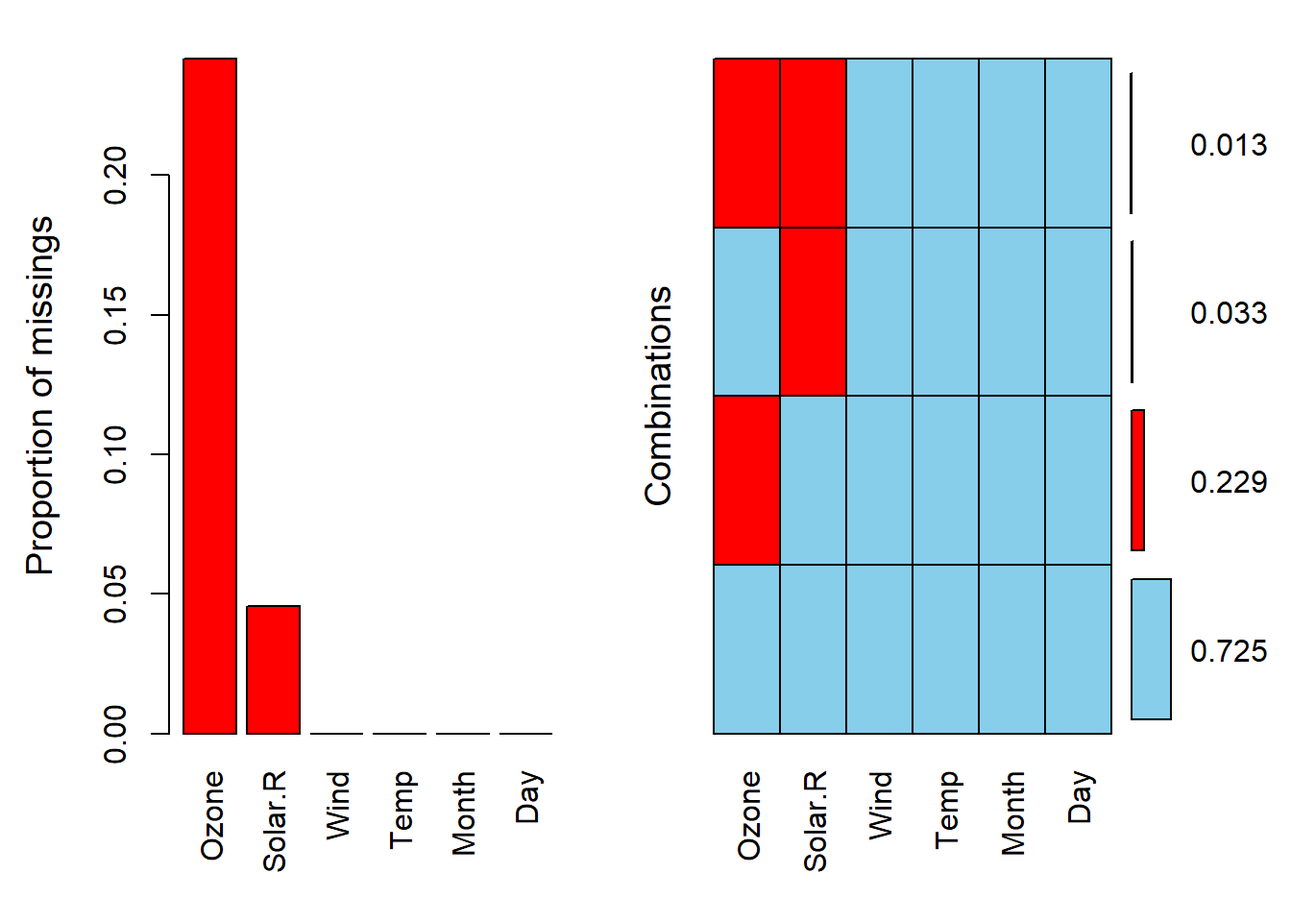
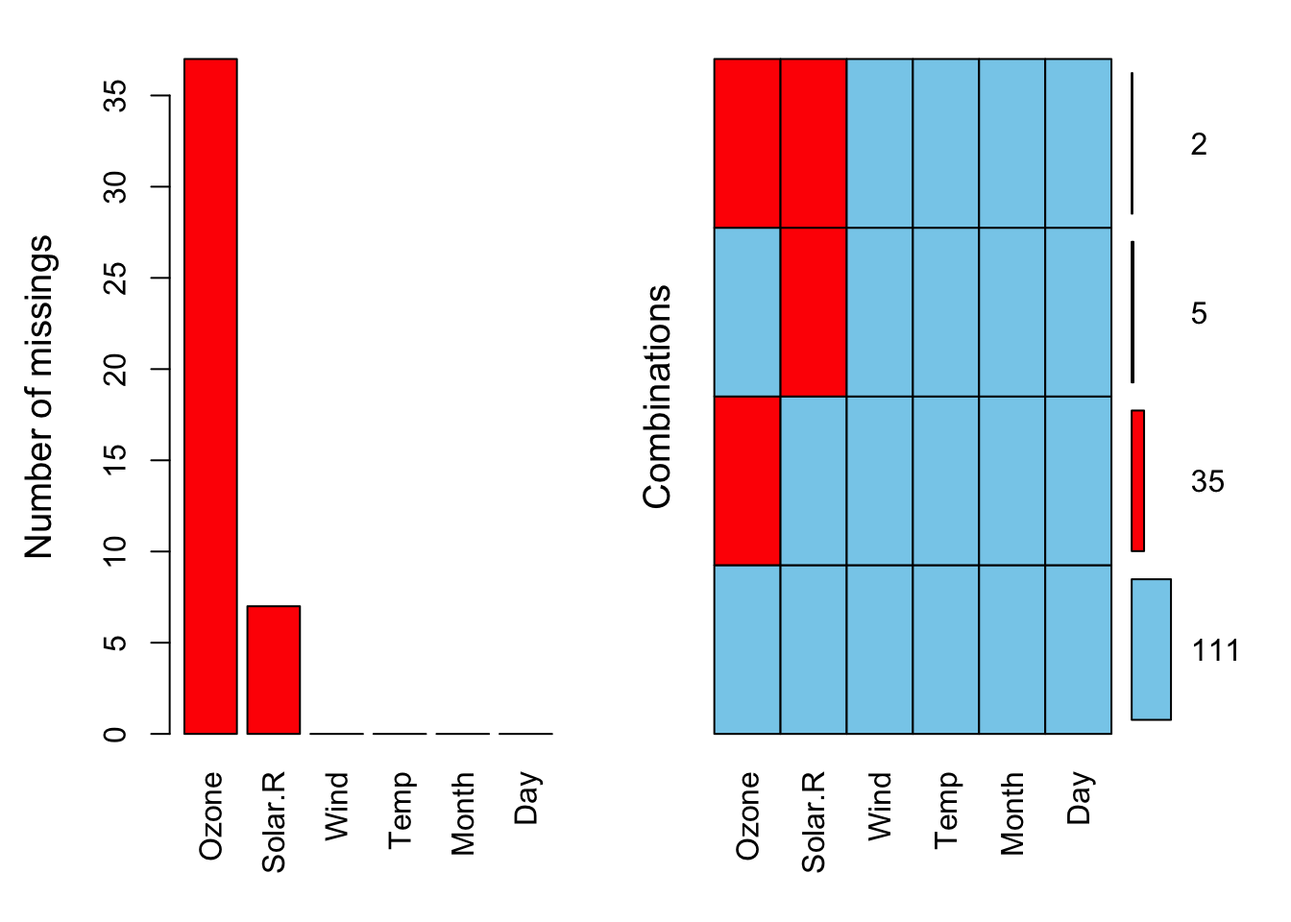
correct some typos

diff --git a/_book/chapters/missing_values.html b/_book/chapters/missing_values.html
@@ -76,7 +76,7 @@ pre > code.sourceCode > span > a:first-child::before { text-decoration: underlin
 <link href="../site_libs/quarto-html/quarto-syntax-highlighting-37eea08aefeeee20ff55810ff984fec1.css" rel="stylesheet" id="quarto-text-highlighting-styles">
 <script src="../site_libs/bootstrap/bootstrap.min.js"></script>
 <link href="../site_libs/bootstrap/bootstrap-icons.css" rel="stylesheet">
-<link href="../site_libs/bootstrap/bootstrap-364982630eef5352dd1537128a8ed5cb.min.css" rel="stylesheet" append-hash="true" id="quarto-bootstrap" data-mode="light">
+<link href="../site_libs/bootstrap/bootstrap-485d01fc63b59abcd3ee1bf1e8e2748d.min.css" rel="stylesheet" append-hash="true" id="quarto-bootstrap" data-mode="light">
 <script id="quarto-search-options" type="application/json">{
   "location": "sidebar",
   "copy-button": false,
@@ -2212,8 +2212,9 @@ Tip
 </section>
 <section id="common-reasons-for-missing-data" class="level2" data-number="8.3">
 <h2 data-number="8.3" class="anchored" data-anchor-id="common-reasons-for-missing-data"><span class="header-section-number">8.3</span> Common Reasons for Missing Data</h2>
-<p>Data may be missing due to: - <strong>Technical issues</strong>: Equipment failure or data transfer errors.</p>
+<p>Data may be missing due to:</p>
 <ul>
+<li><p><strong>Technical issues</strong>: Equipment failure or data transfer errors.</p></li>
 <li><p><strong>Human errors</strong>: Mistakes in entry or recording.</p></li>
 <li><p><strong>Privacy concerns</strong>: Withholding sensitice information.</p></li>
 <li><p><strong>Processing problems</strong>: Errors during data preparation or transformation.</p></li>
@@ -2223,7 +2224,7 @@ Tip
 <h2 data-number="8.4" class="anchored" data-anchor-id="figure-out-why-the-data-is-missing"><span class="header-section-number">8.4</span> Figure out Why the Data Is Missing</h2>
 <p>Before handling missing values, it is IMPORTANT to understand why they are missing – this is part of what we can call <strong>data intuition</strong>, or the ability to look closely at your data and reason about what is happening.</p>
 <p>Ask yourself this key question:</p>
-<p>** Is the value missing because it was recorded, or because it does not exist?**</p>
+<p><strong>Is the value missing because it was recorded, or because it does not exist?</strong></p>
 <ul>
 <li><p>If it <strong>does not exist</strong> (for example, the height of the oldest child of someone who does not have any children), it does not make sense to fill it in – keep it as <code>NaN</code>.</p></li>
 <li><p>If it <strong>was not recorded</strong> (for example, a measurement that someone forgot to take), you may estimate it using other available data. This process is called <strong>imputation</strong>.</p></li>
@@ -2249,24 +2250,13 @@ Tip
 <span id="cb1-3"><a href="#cb1-3" aria-hidden="true" tabindex="-1"></a><span class="fu">library</span>(VIM)</span>
 <span id="cb1-4"><a href="#cb1-4" aria-hidden="true" tabindex="-1"></a></span>
 <span id="cb1-5"><a href="#cb1-5" aria-hidden="true" tabindex="-1"></a><span class="co"># Aggregation plot of missingness</span></span>
-<span id="cb1-6"><a href="#cb1-6" aria-hidden="true" tabindex="-1"></a><span class="fu">aggr</span>(airquality, <span class="at">numbers =</span> <span class="cn">TRUE</span>, <span class="at">sortVars =</span> <span class="cn">TRUE</span>)</span></code><button title="Copy to Clipboard" class="code-copy-button"><i class="bi"></i></button></pre></div>
+<span id="cb1-6"><a href="#cb1-6" aria-hidden="true" tabindex="-1"></a><span class="fu">aggr</span>(airquality, <span class="at">numbers =</span> <span class="cn">TRUE</span>, <span class="at">prop =</span> <span class="cn">FALSE</span>)</span></code><button title="Copy to Clipboard" class="code-copy-button"><i class="bi"></i></button></pre></div>
 <div class="cell-output-display">
 <div>
 <figure class="figure">
 <p><img src="missing_values_files/figure-html/unnamed-chunk-1-1.png" class="img-fluid figure-img" style="width:80.0%"></p>
 </figure>
 </div>
-</div>
-<div class="cell-output cell-output-stdout">
-<pre><code>
- Variables sorted by number of missings: 
- Variable      Count
-    Ozone 0.24183007
-  Solar.R 0.04575163
-     Wind 0.00000000
-     Temp 0.00000000
-    Month 0.00000000
-      Day 0.00000000</code></pre>
 </div>
 </div>
 <div id="qwebr-insertion-location-5"></div>
@@ -2282,8 +2272,8 @@ Tip
 <blockquote class="blockquote">
 <p><em>The data went missing by accident.</em></p>
 </blockquote>
-<p>This meissingness has <strong>nothing to do</strong> with any variable in your dataset. It is just a bad luck – like someone spilled coffee on some forms or a sensor failed. Everyone had an equal chance of having missing data.</p>
-<p><strong>For example</strong>, a few labe samples are lost because a fridge broke. This has nothing to do with the people or the measurements. ::: callout-important If data are MCAR, your analysis will still be fair and unbiased, even if you remove those cases. :::</p>
+<p>This missingness has <strong>nothing to do</strong> with any variable in your dataset. It is just a bad luck – like someone spilled coffee on some forms or a sensor failed. Everyone had an equal chance of having missing data.</p>
+<p><strong>For example</strong>, a few lab samples are lost because a fridge broke. This has nothing to do with the people or the measurements. ::: callout-important If data are MCAR, your analysis will still be fair and unbiased, even if you remove those cases. :::</p>
 <ol start="2" type="1">
 <li><strong>MAR – Missing at Random</strong></li>
 </ol>
@@ -2372,10 +2362,10 @@ Important
 <h4 data-number="8.7.2.1" class="anchored" data-anchor-id="deleting-columns-with-many-missing-values"><span class="header-section-number">8.7.2.1</span> Deleting Columns with Many Missing Values</h4>
 <p>If a column has <em>too many</em> missing values (for example, more than <span class="math inline">\(70\)</span>-<span class="math inline">\(80\%\)</span> of the entries are <code>NA</code>), it may be better to remove it completely.</p>
 <div class="cell">
-<div class="sourceCode cell-code" id="cb3"><pre class="sourceCode r code-with-copy"><code class="sourceCode r"><span id="cb3-1"><a href="#cb3-1" aria-hidden="true" tabindex="-1"></a>data <span class="ot">&lt;-</span> data[, <span class="fu">colSums</span>(<span class="fu">is.na</span>(data)) <span class="sc">&lt;</span> <span class="fl">0.8</span> <span class="sc">*</span> <span class="fu">nrow</span>(data)]</span>
-<span id="cb3-2"><a href="#cb3-2" aria-hidden="true" tabindex="-1"></a></span>
-<span id="cb3-3"><a href="#cb3-3" aria-hidden="true" tabindex="-1"></a><span class="co"># or equivalently</span></span>
-<span id="cb3-4"><a href="#cb3-4" aria-hidden="true" tabindex="-1"></a>data <span class="ot">&lt;-</span> data[, <span class="fu">colMeans</span>(<span class="fu">is.na</span>(data)) <span class="sc">&lt;</span> <span class="fl">0.8</span>]</span></code><button title="Copy to Clipboard" class="code-copy-button"><i class="bi"></i></button></pre></div>
+<div class="sourceCode cell-code" id="cb2"><pre class="sourceCode r code-with-copy"><code class="sourceCode r"><span id="cb2-1"><a href="#cb2-1" aria-hidden="true" tabindex="-1"></a>data <span class="ot">&lt;-</span> data[, <span class="fu">colSums</span>(<span class="fu">is.na</span>(data)) <span class="sc">&lt;</span> <span class="fl">0.8</span> <span class="sc">*</span> <span class="fu">nrow</span>(data)]</span>
+<span id="cb2-2"><a href="#cb2-2" aria-hidden="true" tabindex="-1"></a></span>
+<span id="cb2-3"><a href="#cb2-3" aria-hidden="true" tabindex="-1"></a><span class="co"># or equivalently</span></span>
+<span id="cb2-4"><a href="#cb2-4" aria-hidden="true" tabindex="-1"></a>data <span class="ot">&lt;-</span> data[, <span class="fu">colMeans</span>(<span class="fu">is.na</span>(data)) <span class="sc">&lt;</span> <span class="fl">0.8</span>]</span></code><button title="Copy to Clipboard" class="code-copy-button"><i class="bi"></i></button></pre></div>
 </div>
 <div class="callout callout-style-default callout-tip callout-titled">
 <div class="callout-header d-flex align-content-center">
@@ -2411,8 +2401,8 @@ Caution
 <h5 data-number="8.7.2.2.1" class="anchored" data-anchor-id="listwise-deletion"><span class="header-section-number">8.7.2.2.1</span> Listwise Deletion</h5>
 <p>Listwise deletion (also called <em>case deletion</em>) is the default behaviour in R. This methods removes all rows (cases) that contain at least one missing value, regardless of which variable it occues in. For example,</p>
 <div class="cell">
-<div class="sourceCode cell-code" id="cb4"><pre class="sourceCode r code-with-copy"><code class="sourceCode r"><span id="cb4-1"><a href="#cb4-1" aria-hidden="true" tabindex="-1"></a>linear_model <span class="ot">&lt;-</span> <span class="fu">lm</span>(Ozone <span class="sc">~</span> Solar.R, <span class="at">data =</span> airquality)</span>
-<span id="cb4-2"><a href="#cb4-2" aria-hidden="true" tabindex="-1"></a><span class="fu">summary</span>(linear_model)</span></code><button title="Copy to Clipboard" class="code-copy-button"><i class="bi"></i></button></pre></div>
+<div class="sourceCode cell-code" id="cb3"><pre class="sourceCode r code-with-copy"><code class="sourceCode r"><span id="cb3-1"><a href="#cb3-1" aria-hidden="true" tabindex="-1"></a>linear_model <span class="ot">&lt;-</span> <span class="fu">lm</span>(Ozone <span class="sc">~</span> Solar.R, <span class="at">data =</span> airquality)</span>
+<span id="cb3-2"><a href="#cb3-2" aria-hidden="true" tabindex="-1"></a><span class="fu">summary</span>(linear_model)</span></code><button title="Copy to Clipboard" class="code-copy-button"><i class="bi"></i></button></pre></div>
 <div class="cell-output cell-output-stdout">
 <pre><code>
 Call:
@@ -2437,16 +2427,16 @@ F-statistic: 15.05 on 1 and 109 DF,  p-value: 0.0001793</code></pre>
 </div>
 <p>If you check the model output, R shows at the bottom something like:</p>
 <div class="cell">
-<div class="sourceCode cell-code" id="cb6"><pre class="sourceCode r code-with-copy"><code class="sourceCode r"><span id="cb6-1"><a href="#cb6-1" aria-hidden="true" tabindex="-1"></a> <span class="dv">42</span> observations deleted due to missingness</span></code><button title="Copy to Clipboard" class="code-copy-button"><i class="bi"></i></button></pre></div>
+<div class="sourceCode cell-code" id="cb5"><pre class="sourceCode r code-with-copy"><code class="sourceCode r"><span id="cb5-1"><a href="#cb5-1" aria-hidden="true" tabindex="-1"></a> <span class="dv">42</span> observations deleted due to missingness</span></code><button title="Copy to Clipboard" class="code-copy-button"><i class="bi"></i></button></pre></div>
 </div>
 <p>This message means R autoamtically exculded rows with any missing values before fitting the model.</p>
 <p>You can also perform listwise deletion manually:</p>
 <div class="cell">
-<div class="sourceCode cell-code" id="cb7"><pre class="sourceCode r code-with-copy"><code class="sourceCode r"><span id="cb7-1"><a href="#cb7-1" aria-hidden="true" tabindex="-1"></a>data_without_missing <span class="ot">&lt;-</span> <span class="fu">na.omit</span>(data)</span></code><button title="Copy to Clipboard" class="code-copy-button"><i class="bi"></i></button></pre></div>
+<div class="sourceCode cell-code" id="cb6"><pre class="sourceCode r code-with-copy"><code class="sourceCode r"><span id="cb6-1"><a href="#cb6-1" aria-hidden="true" tabindex="-1"></a>data_without_missing <span class="ot">&lt;-</span> <span class="fu">na.omit</span>(data)</span></code><button title="Copy to Clipboard" class="code-copy-button"><i class="bi"></i></button></pre></div>
 </div>
 <p>Another way is to use only <em>complete cases</em> (rows without any <code>NA</code>).</p>
 <div class="cell">
-<div class="sourceCode cell-code" id="cb8"><pre class="sourceCode r code-with-copy"><code class="sourceCode r"><span id="cb8-1"><a href="#cb8-1" aria-hidden="true" tabindex="-1"></a>data_without_missing <span class="ot">&lt;-</span> data[<span class="fu">complete.cases</span>(data),]</span></code><button title="Copy to Clipboard" class="code-copy-button"><i class="bi"></i></button></pre></div>
+<div class="sourceCode cell-code" id="cb7"><pre class="sourceCode r code-with-copy"><code class="sourceCode r"><span id="cb7-1"><a href="#cb7-1" aria-hidden="true" tabindex="-1"></a>data_without_missing <span class="ot">&lt;-</span> data[<span class="fu">complete.cases</span>(data),]</span></code><button title="Copy to Clipboard" class="code-copy-button"><i class="bi"></i></button></pre></div>
 </div>
 <div class="callout callout-style-default callout-tip callout-titled">
 <div class="callout-header d-flex align-content-center">
@@ -2494,7 +2484,7 @@ Important
 <p>Here, rows are only excluded when data are missing for the specific variables being compared.</p>
 <p>In R, some correlation functions support this:</p>
 <div class="cell">
-<div class="sourceCode cell-code" id="cb9"><pre class="sourceCode r code-with-copy"><code class="sourceCode r"><span id="cb9-1"><a href="#cb9-1" aria-hidden="true" tabindex="-1"></a><span class="fu">cor</span>(data, <span class="at">use =</span> <span class="st">'pairwise.complete.obs'</span>)</span></code><button title="Copy to Clipboard" class="code-copy-button"><i class="bi"></i></button></pre></div>
+<div class="sourceCode cell-code" id="cb8"><pre class="sourceCode r code-with-copy"><code class="sourceCode r"><span id="cb8-1"><a href="#cb8-1" aria-hidden="true" tabindex="-1"></a><span class="fu">cor</span>(data, <span class="at">use =</span> <span class="st">'pairwise.complete.obs'</span>)</span></code><button title="Copy to Clipboard" class="code-copy-button"><i class="bi"></i></button></pre></div>
 </div>
 <p>Although using this method uses more data and does not discard rows entirely, different analyses may use different subsets of data which can make results inconsistent or hard to reproduce.</p>
 </section>
@@ -2556,11 +2546,11 @@ Note
 <p><strong>Group-wise Mean/Median Imputations</strong> Sometimes, imputing within groups makes more sense.</p>
 <p>For instance, if passengers of similar class share similar ages, we can use:</p>
 <div class="cell">
-<div class="sourceCode cell-code" id="cb10"><pre class="sourceCode r code-with-copy"><code class="sourceCode r"><span id="cb10-1"><a href="#cb10-1" aria-hidden="true" tabindex="-1"></a><span class="fu">library</span>(dplyr)</span>
-<span id="cb10-2"><a href="#cb10-2" aria-hidden="true" tabindex="-1"></a>data <span class="ot">&lt;-</span> data <span class="sc">%&gt;%</span></span>
-<span id="cb10-3"><a href="#cb10-3" aria-hidden="true" tabindex="-1"></a>  <span class="fu">group_by</span>(Class) <span class="sc">%&gt;%</span></span>
-<span id="cb10-4"><a href="#cb10-4" aria-hidden="true" tabindex="-1"></a>  <span class="fu">mutate</span>(<span class="at">Age =</span> <span class="fu">if_else</span>(<span class="fu">is.na</span>(Age), <span class="fu">mean</span>(Age, <span class="at">na.rm =</span> <span class="cn">TRUE</span>), Age))<span class="sc">%&gt;%</span></span>
-<span id="cb10-5"><a href="#cb10-5" aria-hidden="true" tabindex="-1"></a>  <span class="fu">ungroup</span>()</span></code><button title="Copy to Clipboard" class="code-copy-button"><i class="bi"></i></button></pre></div>
+<div class="sourceCode cell-code" id="cb9"><pre class="sourceCode r code-with-copy"><code class="sourceCode r"><span id="cb9-1"><a href="#cb9-1" aria-hidden="true" tabindex="-1"></a><span class="fu">library</span>(dplyr)</span>
+<span id="cb9-2"><a href="#cb9-2" aria-hidden="true" tabindex="-1"></a>data <span class="ot">&lt;-</span> data <span class="sc">%&gt;%</span></span>
+<span id="cb9-3"><a href="#cb9-3" aria-hidden="true" tabindex="-1"></a>  <span class="fu">group_by</span>(Class) <span class="sc">%&gt;%</span></span>
+<span id="cb9-4"><a href="#cb9-4" aria-hidden="true" tabindex="-1"></a>  <span class="fu">mutate</span>(<span class="at">Age =</span> <span class="fu">if_else</span>(<span class="fu">is.na</span>(Age), <span class="fu">mean</span>(Age, <span class="at">na.rm =</span> <span class="cn">TRUE</span>), Age))<span class="sc">%&gt;%</span></span>
+<span id="cb9-5"><a href="#cb9-5" aria-hidden="true" tabindex="-1"></a>  <span class="fu">ungroup</span>()</span></code><button title="Copy to Clipboard" class="code-copy-button"><i class="bi"></i></button></pre></div>
 </div>
 <p>Use this when a grouping variable logically explains variation in missing data.</p>
 </div>
@@ -2570,12 +2560,12 @@ Note
 <h5 data-number="8.7.3.1.3" class="anchored" data-anchor-id="imputing-categorcal-columns"><span class="header-section-number">8.7.3.1.3</span> Imputing Categorcal Columns</h5>
 <p>For categorical variabels, replace missing values with the most frequent category or, if many values are missing, a new category such as “unknown”. For example, in a dataset for the variable <code>Gender</code>, we can have</p>
 <div class="cell">
-<div class="sourceCode cell-code" id="cb11"><pre class="sourceCode r code-with-copy"><code class="sourceCode r"><span id="cb11-1"><a href="#cb11-1" aria-hidden="true" tabindex="-1"></a><span class="co"># replace NA with the most common category </span></span>
-<span id="cb11-2"><a href="#cb11-2" aria-hidden="true" tabindex="-1"></a>mode_value <span class="ot">&lt;-</span> <span class="fu">names</span>(<span class="fu">sort</span>(<span class="fu">table</span>(data<span class="sc">$</span>Gender), <span class="at">decreading =</span> <span class="cn">TRUE</span>))[<span class="dv">1</span>]</span>
-<span id="cb11-3"><a href="#cb11-3" aria-hidden="true" tabindex="-1"></a>data<span class="sc">$</span>Gender[<span class="fu">is.na</span>(data<span class="sc">$</span>Gender)] <span class="ot">&lt;-</span> mode_value </span>
-<span id="cb11-4"><a href="#cb11-4" aria-hidden="true" tabindex="-1"></a></span>
-<span id="cb11-5"><a href="#cb11-5" aria-hidden="true" tabindex="-1"></a><span class="co"># Or add a new category </span></span>
-<span id="cb11-6"><a href="#cb11-6" aria-hidden="true" tabindex="-1"></a>data<span class="sc">$</span>Gender <span class="ot">&lt;-</span> <span class="fu">ifelse</span>(<span class="fu">is.na</span>(data<span class="sc">$</span>Gender), <span class="st">"unknown"</span>, data<span class="sc">$</span>Gender)</span></code><button title="Copy to Clipboard" class="code-copy-button"><i class="bi"></i></button></pre></div>
+<div class="sourceCode cell-code" id="cb10"><pre class="sourceCode r code-with-copy"><code class="sourceCode r"><span id="cb10-1"><a href="#cb10-1" aria-hidden="true" tabindex="-1"></a><span class="co"># replace NA with the most common category </span></span>
+<span id="cb10-2"><a href="#cb10-2" aria-hidden="true" tabindex="-1"></a>mode_value <span class="ot">&lt;-</span> <span class="fu">names</span>(<span class="fu">sort</span>(<span class="fu">table</span>(data<span class="sc">$</span>Gender), <span class="at">decreading =</span> <span class="cn">TRUE</span>))[<span class="dv">1</span>]</span>
+<span id="cb10-3"><a href="#cb10-3" aria-hidden="true" tabindex="-1"></a>data<span class="sc">$</span>Gender[<span class="fu">is.na</span>(data<span class="sc">$</span>Gender)] <span class="ot">&lt;-</span> mode_value </span>
+<span id="cb10-4"><a href="#cb10-4" aria-hidden="true" tabindex="-1"></a></span>
+<span id="cb10-5"><a href="#cb10-5" aria-hidden="true" tabindex="-1"></a><span class="co"># Or add a new category </span></span>
+<span id="cb10-6"><a href="#cb10-6" aria-hidden="true" tabindex="-1"></a>data<span class="sc">$</span>Gender <span class="ot">&lt;-</span> <span class="fu">ifelse</span>(<span class="fu">is.na</span>(data<span class="sc">$</span>Gender), <span class="st">"unknown"</span>, data<span class="sc">$</span>Gender)</span></code><button title="Copy to Clipboard" class="code-copy-button"><i class="bi"></i></button></pre></div>
 </div>
 </section>
 </section>
@@ -2583,15 +2573,15 @@ Note
 <h4 data-number="8.7.3.2" class="anchored" data-anchor-id="forward-fill-and-backward-fill-time-series"><span class="header-section-number">8.7.3.2</span> Forward Fill and Backward Fill (Time Series)</h4>
 <p>For time-series data, you can fill missing values using the previous or next observed value.</p>
 <div class="cell">
-<div class="sourceCode cell-code" id="cb12"><pre class="sourceCode r code-with-copy"><code class="sourceCode r"><span id="cb12-1"><a href="#cb12-1" aria-hidden="true" tabindex="-1"></a><span class="co"># install.packages("zoo")</span></span>
-<span id="cb12-2"><a href="#cb12-2" aria-hidden="true" tabindex="-1"></a></span>
-<span id="cb12-3"><a href="#cb12-3" aria-hidden="true" tabindex="-1"></a><span class="fu">library</span>(zoo)</span>
-<span id="cb12-4"><a href="#cb12-4" aria-hidden="true" tabindex="-1"></a></span>
-<span id="cb12-5"><a href="#cb12-5" aria-hidden="true" tabindex="-1"></a><span class="co"># Forward fill</span></span>
-<span id="cb12-6"><a href="#cb12-6" aria-hidden="true" tabindex="-1"></a>data<span class="sc">$</span>Temperature <span class="ot">&lt;-</span> <span class="fu">na.locf</span>(data<span class="sc">$</span>Temperatue, <span class="at">fromLast =</span> <span class="cn">FALSE</span>)</span>
-<span id="cb12-7"><a href="#cb12-7" aria-hidden="true" tabindex="-1"></a></span>
-<span id="cb12-8"><a href="#cb12-8" aria-hidden="true" tabindex="-1"></a><span class="co"># Backward fill </span></span>
-<span id="cb12-9"><a href="#cb12-9" aria-hidden="true" tabindex="-1"></a>data<span class="sc">$</span>Temperature <span class="ot">&lt;-</span> <span class="fu">na.locf</span>(data<span class="sc">$</span>Temperatue, <span class="at">fromLast =</span> <span class="cn">TRUE</span>)</span></code><button title="Copy to Clipboard" class="code-copy-button"><i class="bi"></i></button></pre></div>
+<div class="sourceCode cell-code" id="cb11"><pre class="sourceCode r code-with-copy"><code class="sourceCode r"><span id="cb11-1"><a href="#cb11-1" aria-hidden="true" tabindex="-1"></a><span class="co"># install.packages("zoo")</span></span>
+<span id="cb11-2"><a href="#cb11-2" aria-hidden="true" tabindex="-1"></a></span>
+<span id="cb11-3"><a href="#cb11-3" aria-hidden="true" tabindex="-1"></a><span class="fu">library</span>(zoo)</span>
+<span id="cb11-4"><a href="#cb11-4" aria-hidden="true" tabindex="-1"></a></span>
+<span id="cb11-5"><a href="#cb11-5" aria-hidden="true" tabindex="-1"></a><span class="co"># Forward fill</span></span>
+<span id="cb11-6"><a href="#cb11-6" aria-hidden="true" tabindex="-1"></a>data<span class="sc">$</span>Temperature <span class="ot">&lt;-</span> <span class="fu">na.locf</span>(data<span class="sc">$</span>Temperatue, <span class="at">fromLast =</span> <span class="cn">FALSE</span>)</span>
+<span id="cb11-7"><a href="#cb11-7" aria-hidden="true" tabindex="-1"></a></span>
+<span id="cb11-8"><a href="#cb11-8" aria-hidden="true" tabindex="-1"></a><span class="co"># Backward fill </span></span>
+<span id="cb11-9"><a href="#cb11-9" aria-hidden="true" tabindex="-1"></a>data<span class="sc">$</span>Temperature <span class="ot">&lt;-</span> <span class="fu">na.locf</span>(data<span class="sc">$</span>Temperatue, <span class="at">fromLast =</span> <span class="cn">TRUE</span>)</span></code><button title="Copy to Clipboard" class="code-copy-button"><i class="bi"></i></button></pre></div>
 </div>
 <p>Use this method when data are sequential and values change smoothly over time.</p>
 </section>
@@ -2599,11 +2589,11 @@ Note
 <h4 data-number="8.7.3.3" class="anchored" data-anchor-id="interpolation"><span class="header-section-number">8.7.3.3</span> Interpolation</h4>
 <p>Interpolation estimates missing values based on neighboring points – ideal for regularly spaced time-series.</p>
 <div class="cell">
-<div class="sourceCode cell-code" id="cb13"><pre class="sourceCode r code-with-copy"><code class="sourceCode r"><span id="cb13-1"><a href="#cb13-1" aria-hidden="true" tabindex="-1"></a><span class="co"># install.packages("imputeTS")</span></span>
-<span id="cb13-2"><a href="#cb13-2" aria-hidden="true" tabindex="-1"></a></span>
-<span id="cb13-3"><a href="#cb13-3" aria-hidden="true" tabindex="-1"></a><span class="fu">library</span>(imputeTS)</span>
-<span id="cb13-4"><a href="#cb13-4" aria-hidden="true" tabindex="-1"></a></span>
-<span id="cb13-5"><a href="#cb13-5" aria-hidden="true" tabindex="-1"></a>data<span class="sc">$</span>Temperature <span class="ot">&lt;-</span> <span class="fu">na_interpolation</span>(data<span class="sc">$</span>Temperature, <span class="at">option =</span> <span class="st">"linear"</span>)</span></code><button title="Copy to Clipboard" class="code-copy-button"><i class="bi"></i></button></pre></div>
+<div class="sourceCode cell-code" id="cb12"><pre class="sourceCode r code-with-copy"><code class="sourceCode r"><span id="cb12-1"><a href="#cb12-1" aria-hidden="true" tabindex="-1"></a><span class="co"># install.packages("imputeTS")</span></span>
+<span id="cb12-2"><a href="#cb12-2" aria-hidden="true" tabindex="-1"></a></span>
+<span id="cb12-3"><a href="#cb12-3" aria-hidden="true" tabindex="-1"></a><span class="fu">library</span>(imputeTS)</span>
+<span id="cb12-4"><a href="#cb12-4" aria-hidden="true" tabindex="-1"></a></span>
+<span id="cb12-5"><a href="#cb12-5" aria-hidden="true" tabindex="-1"></a>data<span class="sc">$</span>Temperature <span class="ot">&lt;-</span> <span class="fu">na_interpolation</span>(data<span class="sc">$</span>Temperature, <span class="at">option =</span> <span class="st">"linear"</span>)</span></code><button title="Copy to Clipboard" class="code-copy-button"><i class="bi"></i></button></pre></div>
 </div>
 <p>Use this method when values follow a continues trend (e.g., temperature, stock prices).</p>
 </section>
@@ -2616,18 +2606,18 @@ Note
 </ul>
 <p>For example,</p>
 <div class="cell">
-<div class="sourceCode cell-code" id="cb14"><pre class="sourceCode r code-with-copy"><code class="sourceCode r"><span id="cb14-1"><a href="#cb14-1" aria-hidden="true" tabindex="-1"></a>model <span class="ot">&lt;-</span> <span class="fu">lm</span>(Ozone <span class="sc">~</span> Wind <span class="sc">+</span> Temp <span class="sc">+</span> Solar.R, <span class="at">data =</span> airquality)</span>
-<span id="cb14-2"><a href="#cb14-2" aria-hidden="true" tabindex="-1"></a>pred <span class="ot">&lt;-</span> <span class="fu">predict</span>(model, <span class="at">newdata =</span> airquality)</span>
-<span id="cb14-3"><a href="#cb14-3" aria-hidden="true" tabindex="-1"></a>airquality[<span class="fu">is.na</span>(airquality<span class="sc">$</span>Ozone)] <span class="ot">&lt;-</span> pred[<span class="fu">is.na</span>(airquality<span class="sc">$</span>Ozone)]</span></code><button title="Copy to Clipboard" class="code-copy-button"><i class="bi"></i></button></pre></div>
+<div class="sourceCode cell-code" id="cb13"><pre class="sourceCode r code-with-copy"><code class="sourceCode r"><span id="cb13-1"><a href="#cb13-1" aria-hidden="true" tabindex="-1"></a>model <span class="ot">&lt;-</span> <span class="fu">lm</span>(Ozone <span class="sc">~</span> Wind <span class="sc">+</span> Temp <span class="sc">+</span> Solar.R, <span class="at">data =</span> airquality)</span>
+<span id="cb13-2"><a href="#cb13-2" aria-hidden="true" tabindex="-1"></a>pred <span class="ot">&lt;-</span> <span class="fu">predict</span>(model, <span class="at">newdata =</span> airquality)</span>
+<span id="cb13-3"><a href="#cb13-3" aria-hidden="true" tabindex="-1"></a>airquality[<span class="fu">is.na</span>(airquality<span class="sc">$</span>Ozone)] <span class="ot">&lt;-</span> pred[<span class="fu">is.na</span>(airquality<span class="sc">$</span>Ozone)]</span></code><button title="Copy to Clipboard" class="code-copy-button"><i class="bi"></i></button></pre></div>
 </div>
 <ul>
 <li><strong><span class="math inline">\(k\)</span>-Nearest Neighbors (kNN)</strong>: replace missing values based on similar rows. i.e, kNN filles missing values based on the <span class="math inline">\(k\)</span> most similar observations (neighbors).</li>
 </ul>
 <div class="cell">
-<div class="sourceCode cell-code" id="cb15"><pre class="sourceCode r code-with-copy"><code class="sourceCode r"><span id="cb15-1"><a href="#cb15-1" aria-hidden="true" tabindex="-1"></a><span class="co"># install.packages("VIM")</span></span>
-<span id="cb15-2"><a href="#cb15-2" aria-hidden="true" tabindex="-1"></a><span class="fu">library</span>(VIM) </span>
-<span id="cb15-3"><a href="#cb15-3" aria-hidden="true" tabindex="-1"></a></span>
-<span id="cb15-4"><a href="#cb15-4" aria-hidden="true" tabindex="-1"></a>data_kNN <span class="ot">&lt;-</span> <span class="fu">kNN</span>(airquality, <span class="at">k =</span> <span class="dv">5</span>)</span></code><button title="Copy to Clipboard" class="code-copy-button"><i class="bi"></i></button></pre></div>
+<div class="sourceCode cell-code" id="cb14"><pre class="sourceCode r code-with-copy"><code class="sourceCode r"><span id="cb14-1"><a href="#cb14-1" aria-hidden="true" tabindex="-1"></a><span class="co"># install.packages("VIM")</span></span>
+<span id="cb14-2"><a href="#cb14-2" aria-hidden="true" tabindex="-1"></a><span class="fu">library</span>(VIM) </span>
+<span id="cb14-3"><a href="#cb14-3" aria-hidden="true" tabindex="-1"></a></span>
+<span id="cb14-4"><a href="#cb14-4" aria-hidden="true" tabindex="-1"></a>data_kNN <span class="ot">&lt;-</span> <span class="fu">kNN</span>(airquality, <span class="at">k =</span> <span class="dv">5</span>)</span></code><button title="Copy to Clipboard" class="code-copy-button"><i class="bi"></i></button></pre></div>
 </div>
 <p>Use this method when variables have meaningful similarity structure. It is important to note that this method is computationally expensive for large datasets.</p>
 <ul>
@@ -2639,7 +2629,7 @@ Note
 <h2 data-number="8.8" class="anchored" data-anchor-id="exercise-1"><span class="header-section-number">8.8</span> Exercise 1</h2>
 <p><strong>Dataset1</strong> <code>airquality</code> dataset</p>
 <div class="cell">
-<div class="sourceCode cell-code" id="cb16"><pre class="sourceCode r code-with-copy"><code class="sourceCode r"><span id="cb16-1"><a href="#cb16-1" aria-hidden="true" tabindex="-1"></a><span class="fu">data</span>(<span class="st">"airquality"</span>)</span></code><button title="Copy to Clipboard" class="code-copy-button"><i class="bi"></i></button></pre></div>
+<div class="sourceCode cell-code" id="cb15"><pre class="sourceCode r code-with-copy"><code class="sourceCode r"><span id="cb15-1"><a href="#cb15-1" aria-hidden="true" tabindex="-1"></a><span class="fu">data</span>(<span class="st">"airquality"</span>)</span></code><button title="Copy to Clipboard" class="code-copy-button"><i class="bi"></i></button></pre></div>
 </div>
 <p>The dataset records daily air quality measurements in New York (1973). It has missing values in <code>Ozone</code> and <code>Solar.R</code> columns.</p>
 <p><strong>Question 1:</strong></p>
@@ -2657,9 +2647,9 @@ Note
 <h2 data-number="8.9" class="anchored" data-anchor-id="exercise-2"><span class="header-section-number">8.9</span> Exercise 2</h2>
 <p>** Dataset2** <code>nhanes</code> dataset from <code>mice</code> package</p>
 <div class="cell">
-<div class="sourceCode cell-code" id="cb17"><pre class="sourceCode r code-with-copy"><code class="sourceCode r"><span id="cb17-1"><a href="#cb17-1" aria-hidden="true" tabindex="-1"></a><span class="co"># install.packages("mice")</span></span>
-<span id="cb17-2"><a href="#cb17-2" aria-hidden="true" tabindex="-1"></a><span class="fu">library</span>(mice)</span>
-<span id="cb17-3"><a href="#cb17-3" aria-hidden="true" tabindex="-1"></a><span class="fu">data</span>(<span class="st">"nhanes"</span>)</span></code><button title="Copy to Clipboard" class="code-copy-button"><i class="bi"></i></button></pre></div>
+<div class="sourceCode cell-code" id="cb16"><pre class="sourceCode r code-with-copy"><code class="sourceCode r"><span id="cb16-1"><a href="#cb16-1" aria-hidden="true" tabindex="-1"></a><span class="co"># install.packages("mice")</span></span>
+<span id="cb16-2"><a href="#cb16-2" aria-hidden="true" tabindex="-1"></a><span class="fu">library</span>(mice)</span>
+<span id="cb16-3"><a href="#cb16-3" aria-hidden="true" tabindex="-1"></a><span class="fu">data</span>(<span class="st">"nhanes"</span>)</span></code><button title="Copy to Clipboard" class="code-copy-button"><i class="bi"></i></button></pre></div>
 </div>
 <p><strong>Question 1:</strong></p>
 <ol type="a">

diff --git a/_book/chapters/Outlier_Detection.html b/_book/chapters/Outlier_Detection.html
@@ -76,7 +76,7 @@ pre > code.sourceCode > span > a:first-child::before { text-decoration: underlin
 <link href="../site_libs/quarto-html/quarto-syntax-highlighting-37eea08aefeeee20ff55810ff984fec1.css" rel="stylesheet" id="quarto-text-highlighting-styles">
 <script src="../site_libs/bootstrap/bootstrap.min.js"></script>
 <link href="../site_libs/bootstrap/bootstrap-icons.css" rel="stylesheet">
-<link href="../site_libs/bootstrap/bootstrap-364982630eef5352dd1537128a8ed5cb.min.css" rel="stylesheet" append-hash="true" id="quarto-bootstrap" data-mode="light">
+<link href="../site_libs/bootstrap/bootstrap-485d01fc63b59abcd3ee1bf1e8e2748d.min.css" rel="stylesheet" append-hash="true" id="quarto-bootstrap" data-mode="light">
 <script id="quarto-search-options" type="application/json">{
   "location": "sidebar",
   "copy-button": false,
